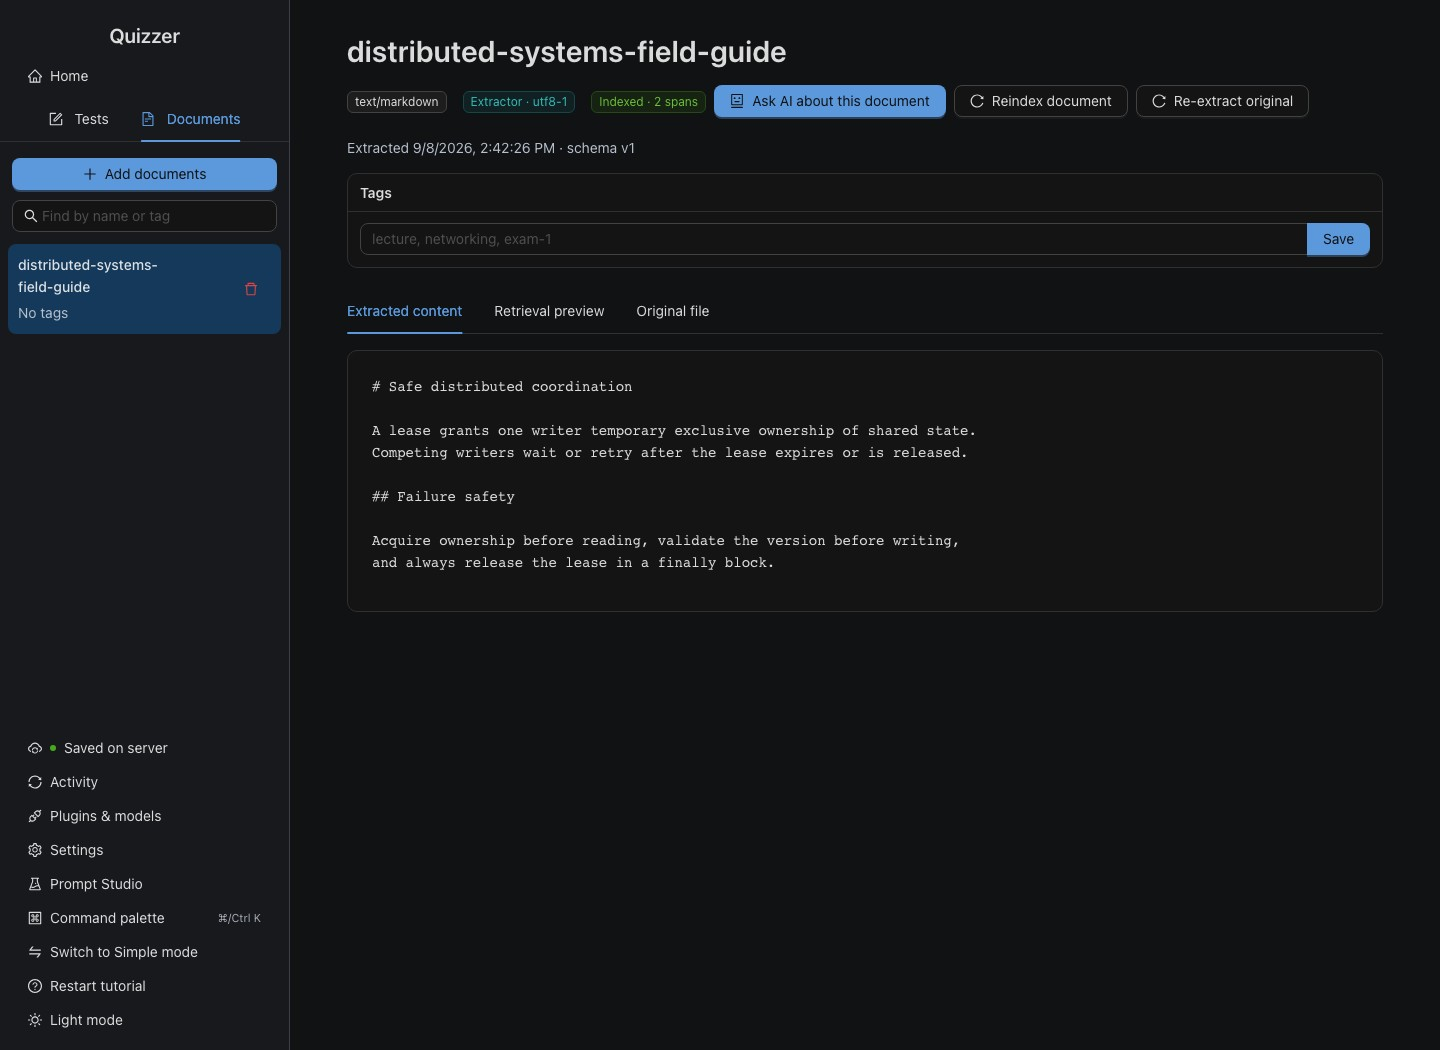
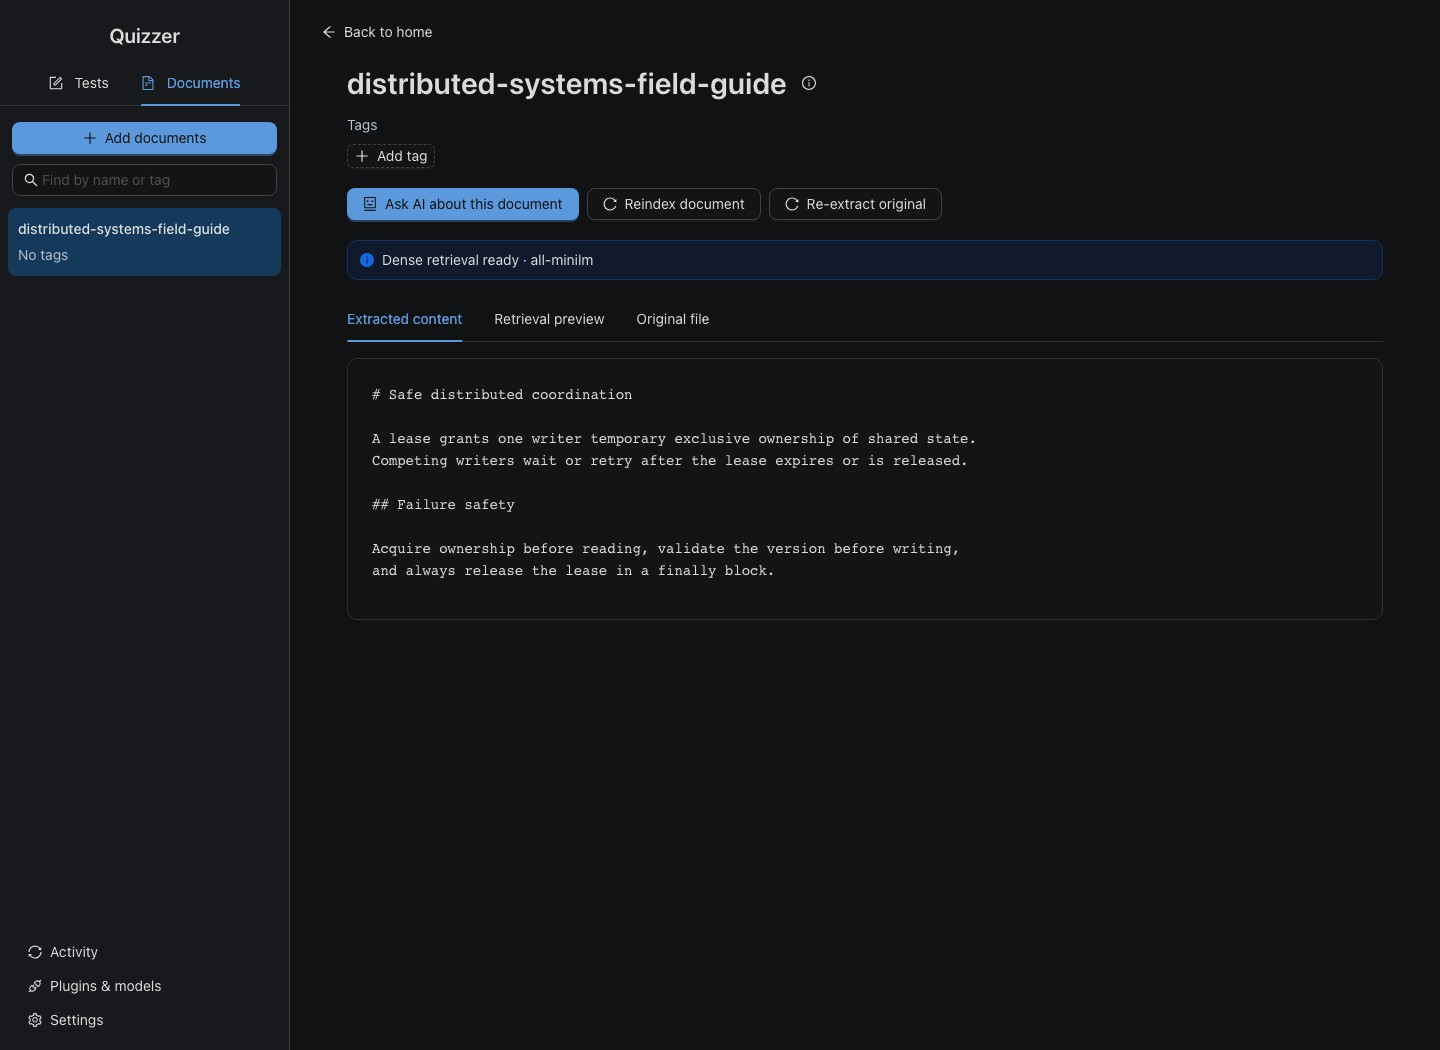
docs: refresh README for Quizzer 1.0 (#190)

diff --git a/e2e/readme-screenshots.capture.ts b/e2e/readme-screenshots.capture.ts
@@ -92,16 +92,18 @@ test('capture current product states for the README', async ({ page }) => {
   const advancedDialog = page.locator('.ant-modal-content').filter({ hasText: 'Create tests from documents' });
   await advancedDialog.locator('input.ant-input').first().fill('Distributed systems essentials');
   await advancedDialog.getByText('distributed-systems-field-guide', { exact: true }).click();
-  await advancedDialog.getByPlaceholder('For example: coding questions about Terraform only')
+  await advancedDialog.getByText('Custom test content', { exact: true }).click();
+  await advancedDialog.getByPlaceholder('For example: emphasize operational tradeoffs')
     .fill('Focus on failure-safe leases and conflicting writers.');
   await advancedDialog.getByRole('spinbutton', { name: 'Multiple choice' }).fill('8');
   await advancedDialog.getByRole('spinbutton', { name: 'Fill in the blank' }).fill('1');
   await advancedDialog.getByRole('spinbutton', { name: 'Reasoning' }).fill('1');
+  await advancedDialog.getByText('Custom provider settings', { exact: true }).click();
   await expect(advancedDialog.getByText('Advanced generation controls')).toBeVisible();
   // Keep the seeded quiz small so the remaining screenshots stay fast and deterministic.
   await advancedDialog.getByRole('spinbutton', { name: 'Multiple choice' }).fill('1');
   await advancedDialog.getByRole('spinbutton', { name: 'Fill in the blank' }).fill('0');
-  await advancedDialog.getByRole('checkbox', { name: /I approve sending selected excerpts/ }).check();
+  await advancedDialog.getByRole('checkbox', { name: /Approve sending selected excerpts/ }).check();
   await advancedDialog.getByRole('button', { name: 'Queue combined test' }).click();
   await expect(page.getByText('1 choice · 1 reasoning · 0 attempts')).toBeVisible({ timeout: 60_000 });
 
@@ -109,7 +111,7 @@ test('capture current product states for the README', async ({ page }) => {
   await page.getByRole('tab', { name: 'Documents' }).click();
   await page.getByRole('region', { name: 'Documents library' })
     .getByRole('heading', { name: 'distributed-systems-field-guide' }).click();
-  await expect(page.getByText(/^Indexed ·/)).toBeVisible();
+  await expect(page.getByText(/^Dense retrieval ready ·/)).toBeVisible();
   await screenshot(page, 'document-current.jpg');
 
   await page.getByRole('button', { name: 'Back to home' }).click();

diff --git a/README.md b/README.md
@@ -12,7 +12,7 @@
 
 <p align="center">
   <a href="https://github.com/longnt27/quizzer/actions/workflows/ci.yml"><img alt="CI status" src="https://github.com/longnt27/quizzer/actions/workflows/ci.yml/badge.svg?branch=develop"></a>
-  <a href="https://github.com/longnt27/quizzer/releases"><img alt="Latest release" src="https://img.shields.io/github/v/release/longnt27/quizzer?include_prereleases&sort=semver"></a>
+  <a href="https://github.com/longnt27/quizzer/releases/latest"><img alt="Latest stable release" src="https://img.shields.io/github/v/release/longnt27/quizzer?sort=semver"></a>
   <a href="LICENSE"><img alt="Apache 2.0 license" src="https://img.shields.io/github/license/longnt27/quizzer"></a>
   <a href="SECURITY.md"><img alt="Security policy" src="https://img.shields.io/badge/security-policy-2ea44f"></a>
 </p>
@@ -30,7 +30,7 @@
 Quizzer builds quizzes from PDF, Markdown, and text without turning your library into an opaque chat history. It keeps documents, tests, progress, and generation checkpoints on your machine; sends only the retrieved excerpts you approve; and attaches stable source spans to every accepted question.
 
 > [!NOTE]
-> **Public beta available:** `v1.0.0-beta.5` is ready to install. Downloads are protected by a signed manifest and SHA-256 checksums. The app does not yet have paid Apple notarization or a Windows publisher certificate, so those systems may show an unidentified-developer or unknown-publisher warning.
+> **Quizzer 1.0 is the first stable release.** Downloads are protected by a signed manifest and SHA-256 checksums. The app does not yet have paid Apple notarization or a Windows publisher certificate, so those systems may show an unidentified-developer or unknown-publisher warning.
 
 ## Install
 
@@ -39,13 +39,13 @@ No Node.js, Python, Git, or package manager is required.
 **macOS and Linux**
 
 ```sh
-curl -fsSL https://github.com/longnt27/quizzer/releases/download/v1.0.0-beta.5/install.sh | sh
+curl -fsSL https://github.com/longnt27/quizzer/releases/latest/download/install.sh | sh
 ```
 
 **Windows PowerShell**
 
 ```powershell
-irm https://github.com/longnt27/quizzer/releases/download/v1.0.0-beta.5/install.ps1 | iex
+irm https://github.com/longnt27/quizzer/releases/latest/download/install.ps1 | iex
 ```
 
 The installer detects x64 or arm64, verifies the release before installing, adds `quizzer` to your user PATH, registers the desktop app, and opens the guided setup. The command installers are Quizzer's supported distribution path.
@@ -69,7 +69,7 @@ Lite is the CPU-only baseline. Local generation in Balanced or Max depends on th
 | --- | --- | --- |
 | Every accepted question retains the evidence used to create it. Open citations during practice instead of trusting a plausible answer. | Keep the library locally and choose Ollama, llama.cpp, an existing coding-agent sign-in, an API, or a plugin. | Mix multiple choice, fill-in-the-blank, reasoning, and coding. Add a learning goal such as “Terraform coding questions only.” |
 | **Durable work** | **Simple when you want it** | **Honest failure handling** |
-| Indexing, generation, attempts, and paused practice survive restarts. Completed slots are not regenerated. | Simple mode is a short source → goal → preset flow. Advanced mode reveals prompts, RAG, routes, cost ceilings, and validation controls. | Low-confidence retrieval gets one corrective pass, then refuses. Quota failures preserve accepted questions and resume only unfinished work. |
+| Indexing, generation, attempts, and paused practice survive restarts. Close an import or generation view and follow its progress later in Activity. | Simple mode is a short source → goal → preset flow. Advanced mode reveals prompts, per-question instructions, RAG, routes, cost ceilings, and validation controls. | Low-confidence retrieval gets one corrective pass, then refuses. Quota failures preserve accepted questions and resume only unfinished work. |
 
 ## From source to understanding
 
@@ -81,11 +81,11 @@ Lite is the CPU-only baseline. Local generation in Balanced or Max depends on th
 
 <table>
   <tr>
-    <td width="50%"><img src="docs/screenshots/home-current.jpg" alt="Quizzer Home dashboard with library and system health"></td>
+    <td width="50%"><img src="docs/screenshots/home-current.jpg" alt="Quizzer Home dashboard with recent tests, resumable activity, and system health"></td>
     <td width="50%"><img src="docs/screenshots/document-current.jpg" alt="Indexed document with extracted content and retrieval controls"></td>
   </tr>
   <tr>
-    <td align="center"><sub>One place for recent tests, resumable work, and system health</sub></td>
+    <td align="center"><sub>Recent learning comes first, with resumable work and system health close by</sub></td>
     <td align="center"><sub>Inspect extraction, indexing, tags, originals, and retrieval</sub></td>
   </tr>
 </table>
